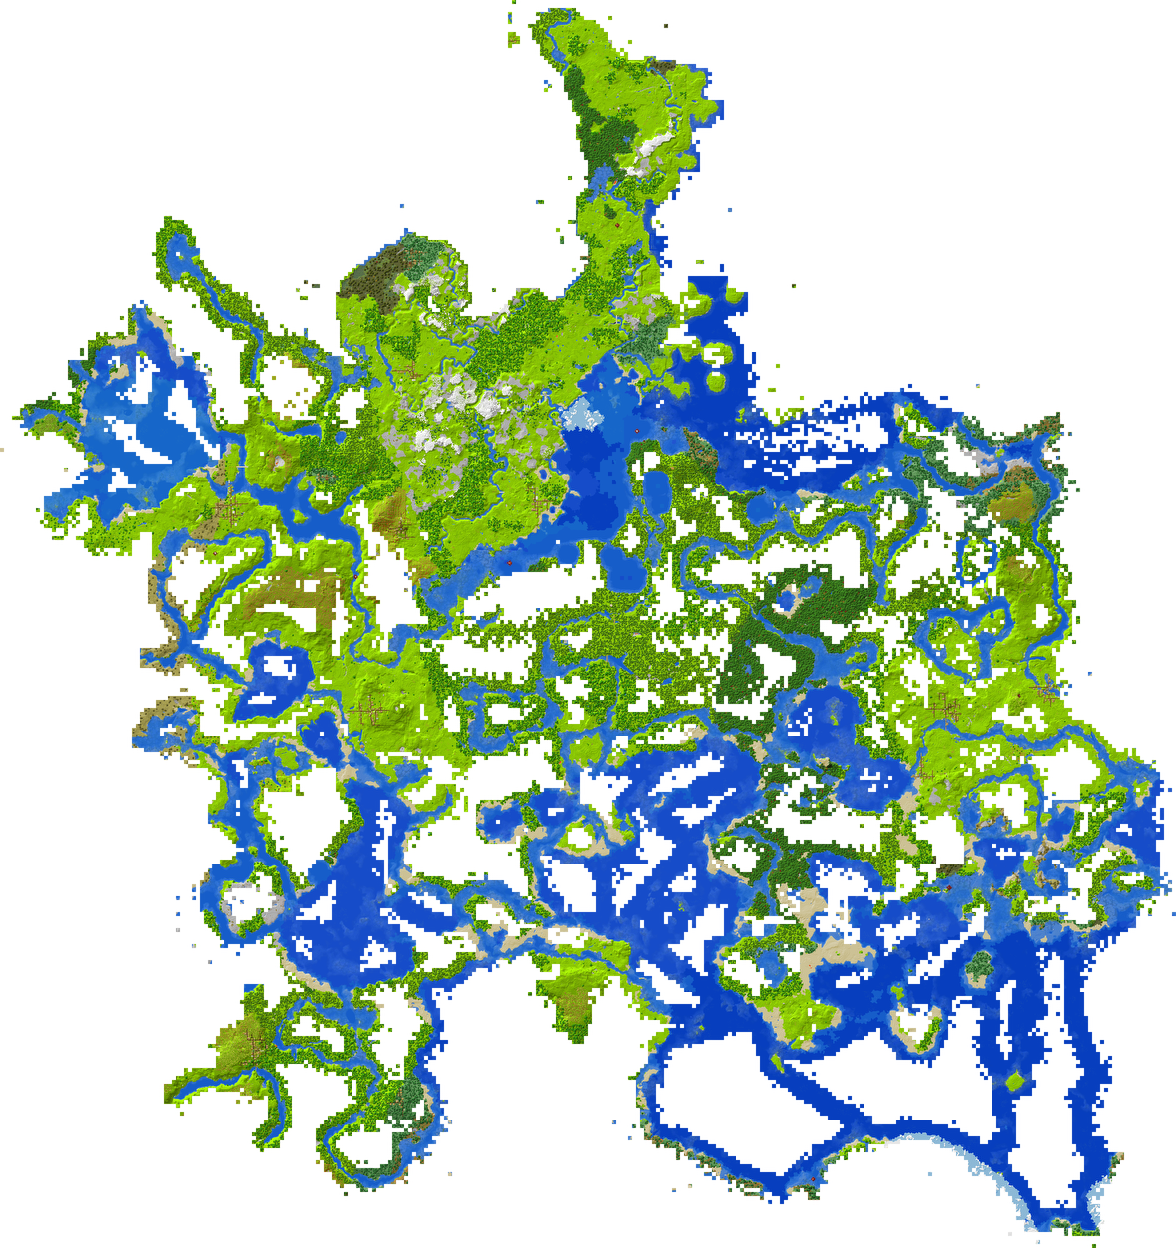
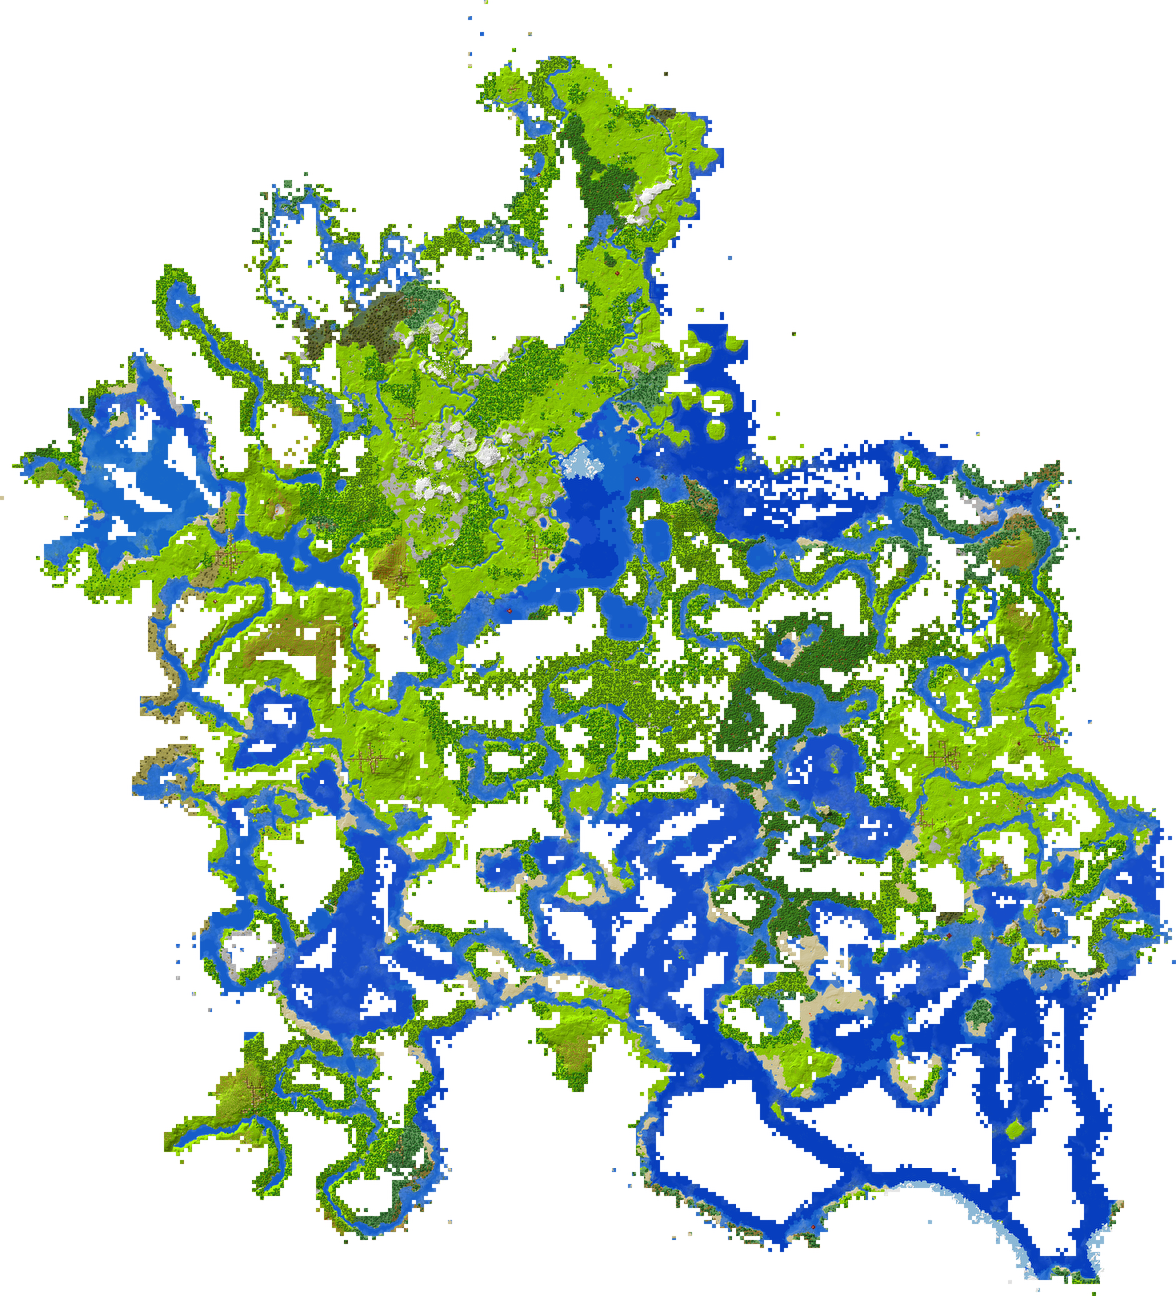
add connections toggle

diff --git a/src/components/InfoDisplay.jsx b/src/components/InfoDisplay.jsx
@@ -2,6 +2,22 @@ import './InfoDisplay.css';
 import Map from './Map';
 import { findConnections, parseBiomes, parseDescription, parseLocation, parseNetherPortalDetails, parseRating, parseType } from './InfoDisplay_Utils';
 import { Gallery } from './Gallery';
+import { useState } from 'react';
+
+const ConnectionsToggle = (props) => {
+  const { showNetherConnections, setShowNetherConnections } = props;
+
+  const handleChange = (value) => {
+    setShowNetherConnections(value);
+  }
+
+  return (
+    <div className="InfoDisplay-toggleConnectionsContainer">
+      <label htmlFor="InfoDisplay-connectionsToggle">Show Nether Connections</label>
+      <input id="InfoDisplay-connectionsToggle" type="checkbox" checked={showNetherConnections} onChange={() => handleChange(!showNetherConnections)} />
+    </div>
+  )
+}
 
 const InfoDisplay = (props) => {
   const {
@@ -13,6 +29,7 @@ const InfoDisplay = (props) => {
     setSelectedPlace,
     setHoveredPlace,
   } = props;
+  const [showNetherConnections, setShowNetherConnections] = useState(true);
 
   const onPlaceSelected = (place) => {
     setSelectedPlace(place);
@@ -53,57 +70,64 @@ const InfoDisplay = (props) => {
   const netherPortalList = parseNetherPortalDetails(netherPortalDetails);
 
   return (
-    <div className="InfoDisplay-container">
+    <div className="InfoDisplay-outerContainer">
       <header>
         <h1 className="InfoDisplay-title">{name}</h1>
       </header>
       <main>
         <section className="InfoDisplay-summary">
-          <table className="InfoDisplay-infobox">
-            <tbody>
-              <tr>
-                <th>Type</th>
-                <td>{typeIcon}</td>
-              </tr>
-              <tr>
-                <th>Biome</th>
-                <td>
-                  <ul>
-                    {biomeList}
-                  </ul>
-                </td>
-              </tr>
-              <tr>
-                <th>Rating</th>
-                <td>{ratingStars}</td>
-              </tr>
-              <tr>
-                <th>Location</th>
-                <td>{locationString}</td>
-              </tr>
-              <tr>
-                <th>Raids</th>
-                <td>{raidCount === -1 ? "N/A" : raidCount}</td>
-              </tr>
-              <tr>
-                <th>Nether Portal</th>
-                {netherPortalList}
-              </tr>
-              <tr>
-                <th>Connections</th>
-                <td>
-                  <ul>
-                    {connectionByDistanceList}
-                  </ul>
-                </td>
-              </tr>
-            </tbody>
-          </table>
+          <div className="InfoDisplay-innerContainer">
+            <table className="InfoDisplay-infobox">
+              <tbody>
+                <tr>
+                  <th>Type</th>
+                  <td>{typeIcon}</td>
+                </tr>
+                <tr>
+                  <th>Biome</th>
+                  <td>
+                    <ul>
+                      {biomeList}
+                    </ul>
+                  </td>
+                </tr>
+                <tr>
+                  <th>Rating</th>
+                  <td>{ratingStars}</td>
+                </tr>
+                <tr>
+                  <th>Location</th>
+                  <td>{locationString}</td>
+                </tr>
+                <tr>
+                  <th>Raids</th>
+                  <td>{raidCount === -1 ? "N/A" : raidCount}</td>
+                </tr>
+                <tr>
+                  <th>Nether Portal</th>
+                  {netherPortalList}
+                </tr>
+                <tr>
+                  <th>Connections</th>
+                  <td>
+                    <ul>
+                      {connectionByDistanceList}
+                    </ul>
+                  </td>
+                </tr>
+              </tbody>
+            </table>
+            <ConnectionsToggle
+              showNetherConnections={showNetherConnections}
+              setShowNetherConnections={setShowNetherConnections}
+            />
+          </div>
           <Map
             selectedPlace={selectedPlace}
             hoveredPlace={hoveredPlace}
             placeData={placesData}
             connectionsByCoordsPairs={connectionsByCoordsPairs}
+            showNetherConnections={showNetherConnections}
           />
         </section>
         <section className="InfoDisplay-description">

diff --git a/src/components/Map.jsx b/src/components/Map.jsx
@@ -19,7 +19,7 @@ const MapMarker = (props) => {
 }
 
 const MapConnection = (props) => {
-  const { mapDimensions, coordsPair, type } = props;
+  const { mapDimensions, coordsPair } = props;
   const { map: mapSettings} = settings;
   const details = calculateConnectionCoords(mapDimensions, coordsPair, mapSettings);
 
@@ -35,7 +35,13 @@ const MapConnection = (props) => {
 }
 
 const Map = (props) => {
-  const { placeData, selectedPlace, hoveredPlace, connectionsByCoordsPairs } = props;
+  const {
+    placeData,
+    selectedPlace,
+    hoveredPlace,
+    connectionsByCoordsPairs,
+    showNetherConnections,
+  } = props;
   const [mapDimensions, setMapDimensions] = useState({ x: 0, y: 0 });
   const mapElem = useRef(null);
 
@@ -94,7 +100,7 @@ const Map = (props) => {
         onLoad={onMapImgLoad}
       />
       <svg className="Map-svgContainer" width="100%" height="100%">
-        {netherConnections}
+        {showNetherConnections && netherConnections}
         {mapMarkers}
       </svg>
     </div>

diff --git a/src/components/InfoDisplay.css b/src/components/InfoDisplay.css
@@ -1,4 +1,4 @@
-.InfoDisplay-container {
+.InfoDisplay-outerContainer {
   padding-left: 1rem;
   grid-row-start: 2;
   grid-row-end: 3;
@@ -8,16 +8,16 @@
   scrollbar-color: #505050 #303030;
 }
 
-.InfoDisplay-container > header {
+.InfoDisplay-outerContainer > header {
   padding-bottom: 2.5rem;
 }
 
-.InfoDisplay-container::-webkit-scrollbar {
+.InfoDisplay-outerContainer::-webkit-scrollbar {
   background-color: #303030;
   border-radius: 10px;
 }
 
-.InfoDisplay-container::-webkit-scrollbar-thumb {
+.InfoDisplay-outerContainer::-webkit-scrollbar-thumb {
   background: #505050;
   border-radius: 10px;
 }
@@ -82,4 +82,15 @@
 .InfoDisplay-netherPortalHeading {
   font-weight: 500;
   font-style: italic;
+}
+
+.InfoDisplay-innerContainer {
+  display: flex;
+  flex-direction: column;
+  align-items: center;
+}
+
+
+.InfoDisplay-toggleConnectionsContainer {
+  margin: 0.5rem 0;
 }
